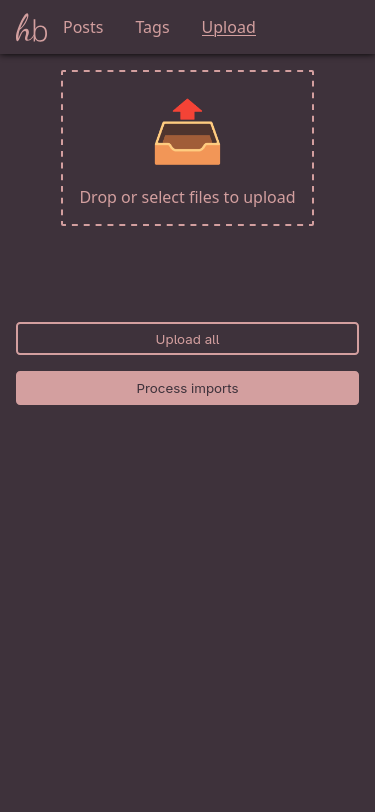
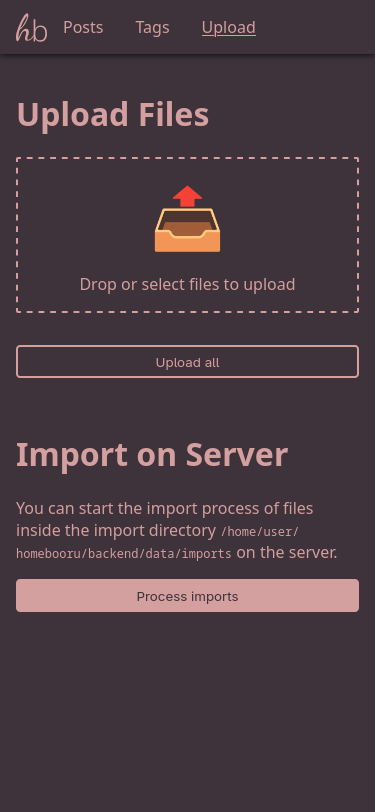
Updated documentation

diff --git a/README.md b/README.md
@@ -7,16 +7,20 @@ So the goal with this project is to have as few dependencies to other things lik
 
 ## What does it do?
 Currently homebooru supports:
-- Uploading images and videos
+- Uploading images and videos (now with progress bars!)
+- Importing images and videos from local server directory
 - Tagging posts
 - Searching for posts by tags
 - Display posts (obviously!)
 - Mass-tagging posts
+- Tag categories
+
+## Next goals
+- Show most frequent tags on posts page
+- Tag aliases
 
 ## What does it not do? (for now)
 - Duplicate detection
-- Tag categories
-- Tag aliases
 - Tag implications
 
 ## Requirements

diff --git a/frontend/README.md b/frontend/README.md
@@ -9,5 +9,4 @@ The frontend assumes that posts are available on `http(s)://<hostname>/data/post
 Some things like the amount of posts per page can be configured in the [config file](config.js).
 
 ## Styling
-You can adjust the colors and roundness of elements in the [theme.css](theme.css).
-
+You can adjust the colors and roundness of elements at the top of the [base.css](base.css).
